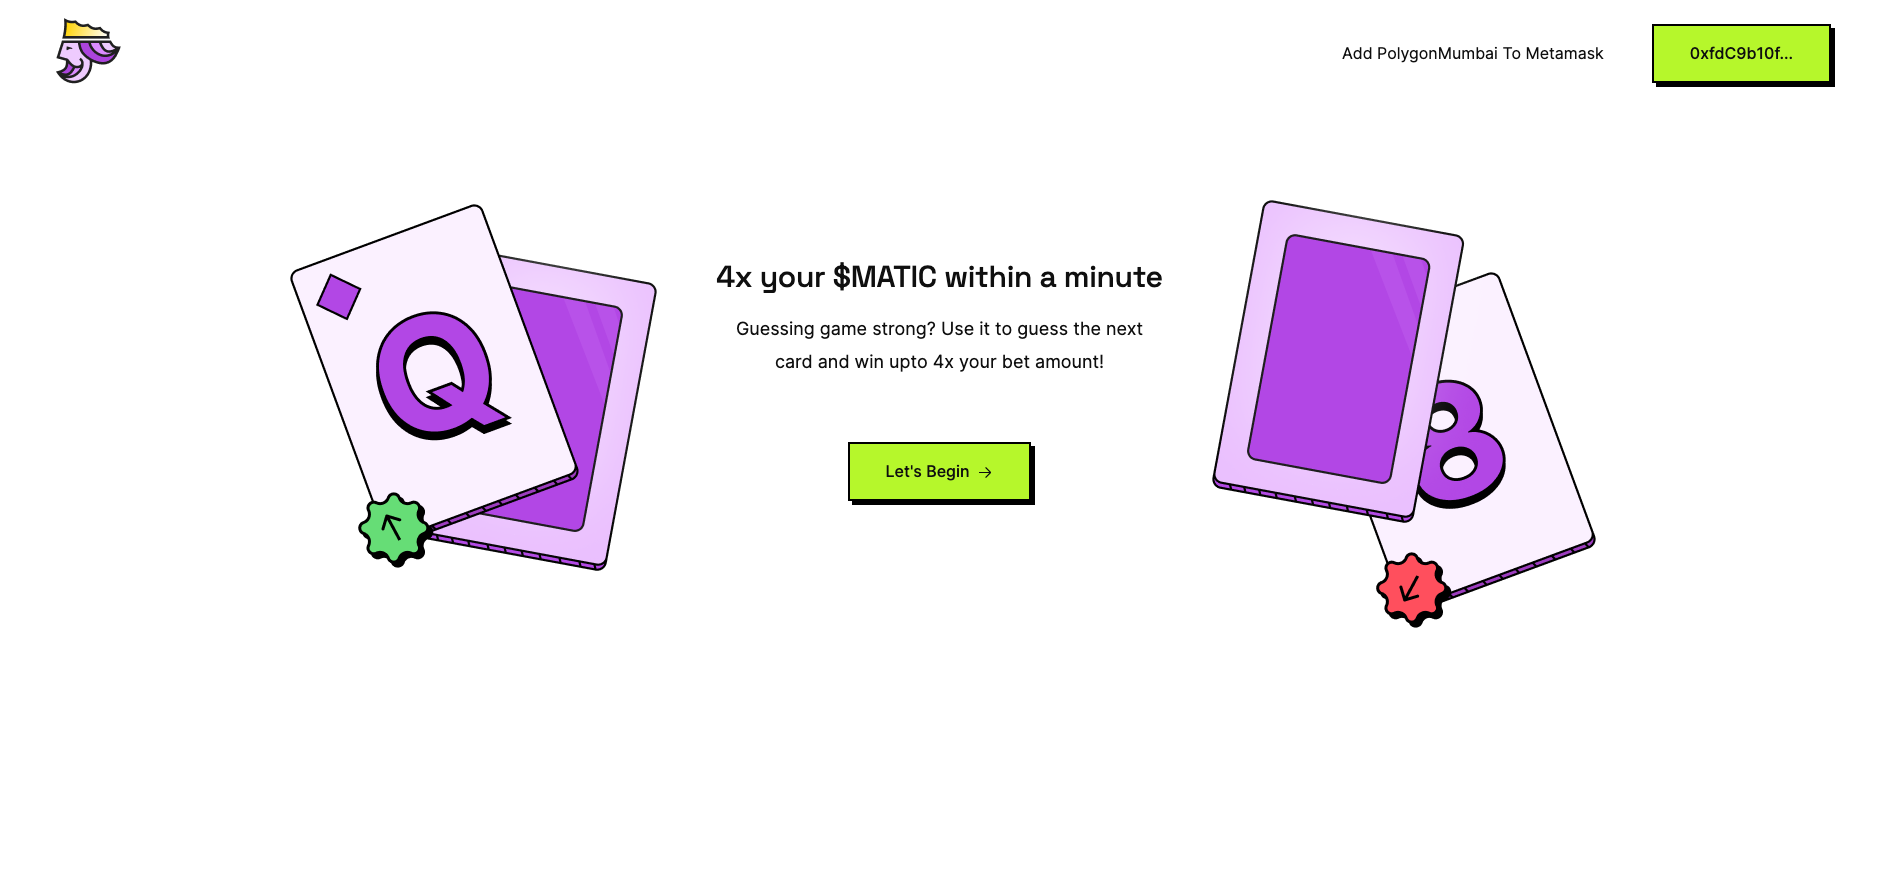
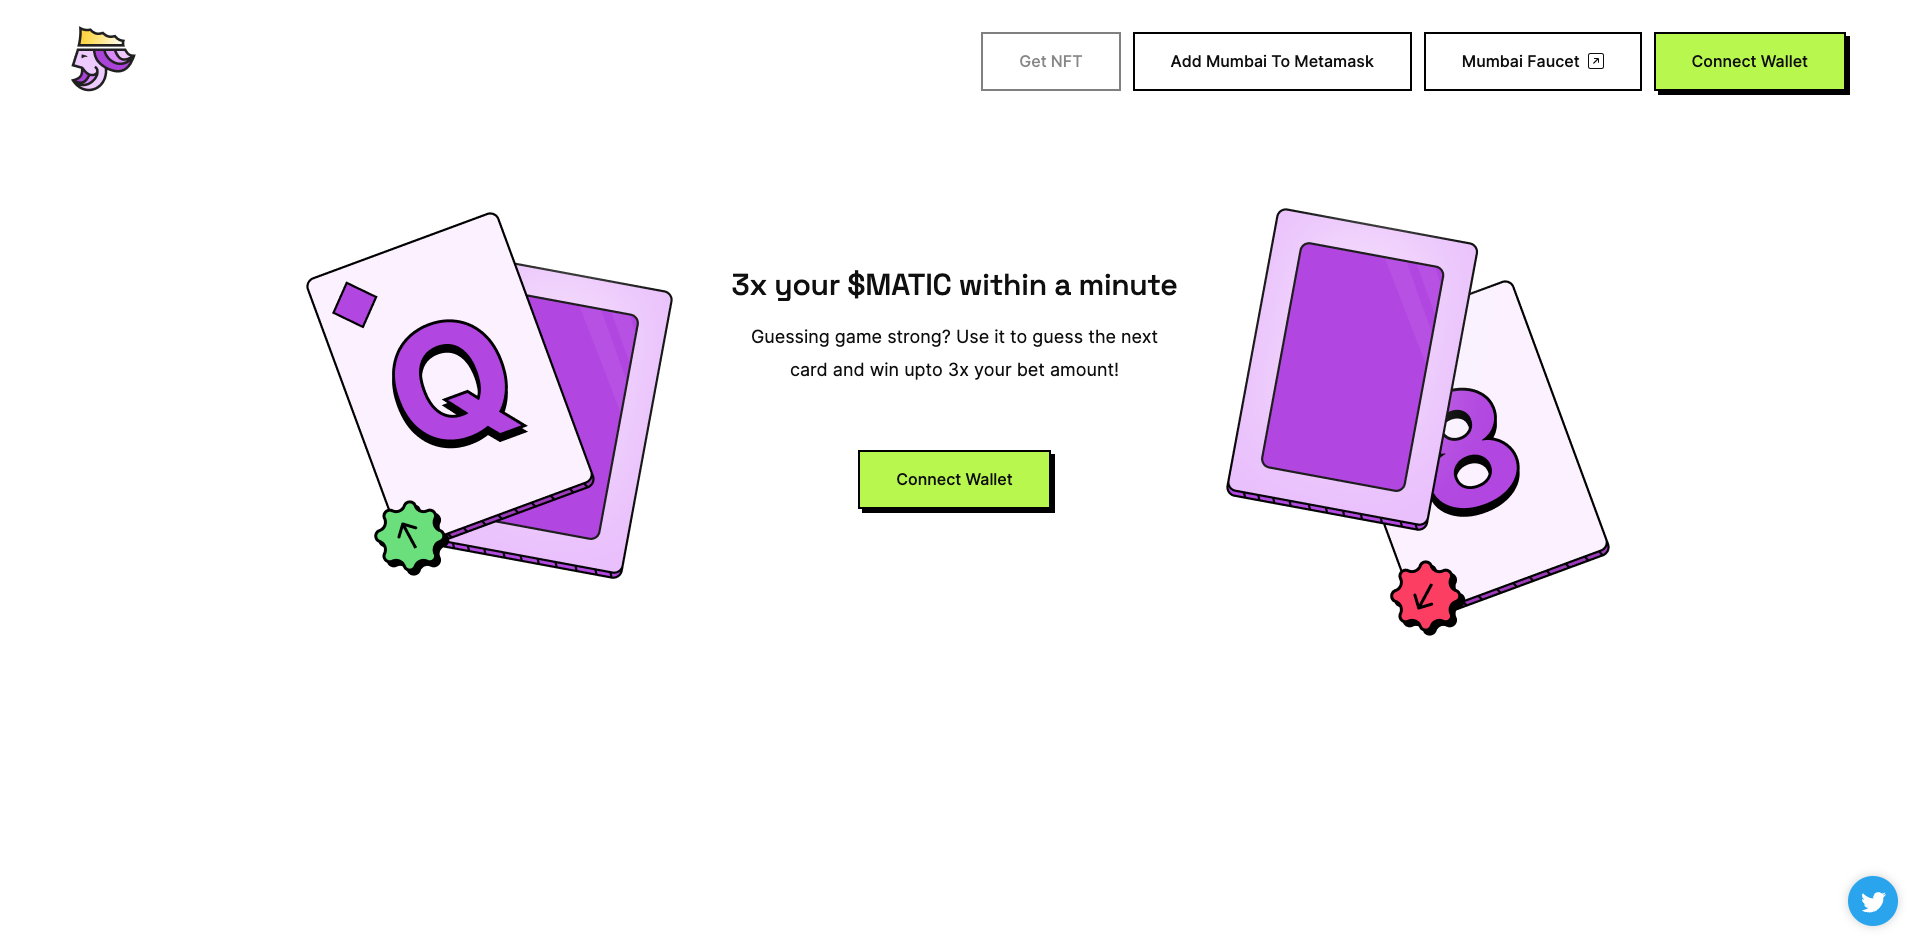
added twitter link

diff --git a/public/index.html b/public/index.html
@@ -15,6 +15,28 @@
       href="https://fonts.googleapis.com/css2?family=Inter:wght@200;300;400;500&display=swap"
       rel="stylesheet"
     />
+
+    <!-- Primary Meta Tags -->
+    <title>Degenjack</title>
+    <meta name="title" content="Degenjack" />
+    <meta name="description" content="3x your $MATIC within a minute" />
+
+    <!-- Open Graph / Facebook -->
+    <meta property="og:type" content="website" />
+    <meta property="og:url" content="https://metatags.io/" />
+    <meta property="og:title" content="Degenjack" />
+    <meta property="og:description" content="3x your $MATIC within a minute" />
+    <meta property="og:image" content="/og-image.png" />
+
+    <!-- Twitter -->
+    <meta property="twitter:card" content="summary_large_image" />
+    <meta property="twitter:url" content="https://metatags.io/" />
+    <meta property="twitter:title" content="Degenjack" />
+    <meta
+      property="twitter:description"
+      content="3x your $MATIC within a minute"
+    />
+    <meta property="twitter:image" content="og-image.png" />
     <meta name="description" content="3x your $MATIC within a minute" />
     <link rel="apple-touch-icon" href="%PUBLIC_URL%/logo192.png" />
     <meta property="og:title" content="Degenjack" />
@@ -23,7 +45,7 @@
     property="og:description" content="Guessing game strong? Use it to guess the
     next card and win upto 3x your bet amount!"" />
     <meta property="og:type" content="website" />
-    <meta property="og:image" content=/og-image.png>
+    <meta property="og:image" content="og-image.png" />
     <link rel="manifest" href="%PUBLIC_URL%/manifest.json" />
 
     <title>Degenjack</title>

diff --git a/src/components/GameWonModal.jsx b/src/components/GameWonModal.jsx
@@ -1,4 +1,5 @@
 import React from "react";
+import { BsTwitter } from "react-icons/bs";
 import styled from "styled-components";
 import Button from "./Button";
 
@@ -28,6 +29,13 @@ const GameWonModal = ({ payoutAmount, setGameStarted }) => {
             Degen Again
           </Button>
         </ButtonContainer>
+        <MyLink
+          href="http://twitter.com/intent/tweet?text=Just%20played%20a%20few%20hands%20%40DegenJack.%20%0ATry%20your%20luck%20and%20stand%20a%20chance%20to%20win%20100%20USDC%21%20%0AGive%20it%20a%20try%20https%3A%2F%2Fdegenjack.xyz%0A"
+          target={"_blank"}
+        >
+          <BsTwitter />
+          Tweet about it
+        </MyLink>
         {/* <Link>I'd like to tip DegenJack</Link> */}
       </ModalContainer>
     </Container>
@@ -44,7 +52,14 @@ const Container = styled.div`
   justify-content: center;
   align-items: center;
 `;
-
+const MyLink = styled.a`
+  margin-top: 40px;
+  text-decoration: "none";
+  color: rgb(29, 155, 240);
+  display: flex;
+  gap: 8px;
+  align-items: center;
+`;
 const ModalContainer = styled.div`
   width: 620px;
   height: 395px;

diff --git a/src/components/GameLostModal.jsx b/src/components/GameLostModal.jsx
@@ -1,4 +1,5 @@
 import React from "react";
+import { BsTwitter } from "react-icons/bs";
 import styled from "styled-components";
 import Button from "./Button";
 
@@ -26,6 +27,13 @@ const GameLostModal = ({ setGameStarted }) => {
             Degen Again
           </Button>
         </ButtonContainer>
+        <MyLink
+          href="http://twitter.com/intent/tweet?text=Just%20played%20a%20few%20hands%20%40DegenJack.%20%0ATry%20your%20luck%20and%20stand%20a%20chance%20to%20win%20100%20USDC%21%20%0AGive%20it%20a%20try%20https%3A%2F%2Fdegenjack.xyz%0A"
+          target={"_blank"}
+        >
+          <BsTwitter />
+          Tweet about it
+        </MyLink>
       </ModalContainer>
     </Container>
   );
@@ -41,7 +49,14 @@ const Container = styled.div`
   justify-content: center;
   align-items: center;
 `;
-
+const MyLink = styled.a`
+  margin-top: 40px;
+  text-decoration: "none";
+  color: rgb(29, 155, 240);
+  display: flex;
+  gap: 8px;
+  align-items: center;
+`;
 const ModalContainer = styled.div`
   width: 620px;
   height: 344px;

diff --git a/src/components/Navbar.jsx b/src/components/Navbar.jsx
@@ -3,6 +3,7 @@ import styled from "styled-components";
 import { useAccount } from "wagmi";
 import Button from "./Button";
 import { Link } from "react-router-dom";
+import { BsArrowUpRightSquare } from "react-icons/bs";
 const Navbar = ({ setShowSelectWalletModal }) => {
   const { address, isConnected } = useAccount();
   const addMumbai = () => {
@@ -61,6 +62,19 @@ const Navbar = ({ setShowSelectWalletModal }) => {
           onClick={() => addMumbai()}
         >
           Add Mumbai To Metamask
+        </Button>
+        <Button
+          variant="disabled"
+          style={{
+            marginRight: "12px",
+            border: "2px solid black",
+          }}
+          onClick={() =>
+            window.open(" https://faucet.polygon.technology/", "_blank")
+          }
+        >
+          Mumbai Faucet
+          <BsArrowUpRightSquare stroke="2" />
         </Button>
         <Button
           variant="primary"

diff --git a/src/App.js b/src/App.js
@@ -36,7 +36,7 @@ function App() {
           <Route
             path="/"
             element={
-              <div className="App">
+              <div className="App" style={{ minHeight: "100vh" }}>
                 {gameStarted ? (
                   <Game setGameStarted={setGameStarted} />
                 ) : (

diff --git a/src/components/Button.jsx b/src/components/Button.jsx
@@ -16,6 +16,7 @@ const Button = ({ children, variant, style, onClick, disabled }) => {
 const ButtonContainer = styled.button`
   display: flex;
   flex-direction: row;
+  gap: 8px;
   justify-content: center;
   align-items: center;
   padding: 18px 36px;

diff --git a/src/pages/Game.jsx b/src/pages/Game.jsx
@@ -442,6 +442,7 @@ const ContentContainer = styled.div`
   display: flex;
   justify-content: space-evenly;
   align-items: center;
+  margin-top: 100px;
 `;
 const Left = styled.div`
   text-align: center;

diff --git a/src/index.css b/src/index.css
@@ -4,3 +4,7 @@
   box-sizing: border-box;
   font-family: "Inter", sans-serif;
 }
+a {
+  text-decoration: none;
+  color: black;
+}
